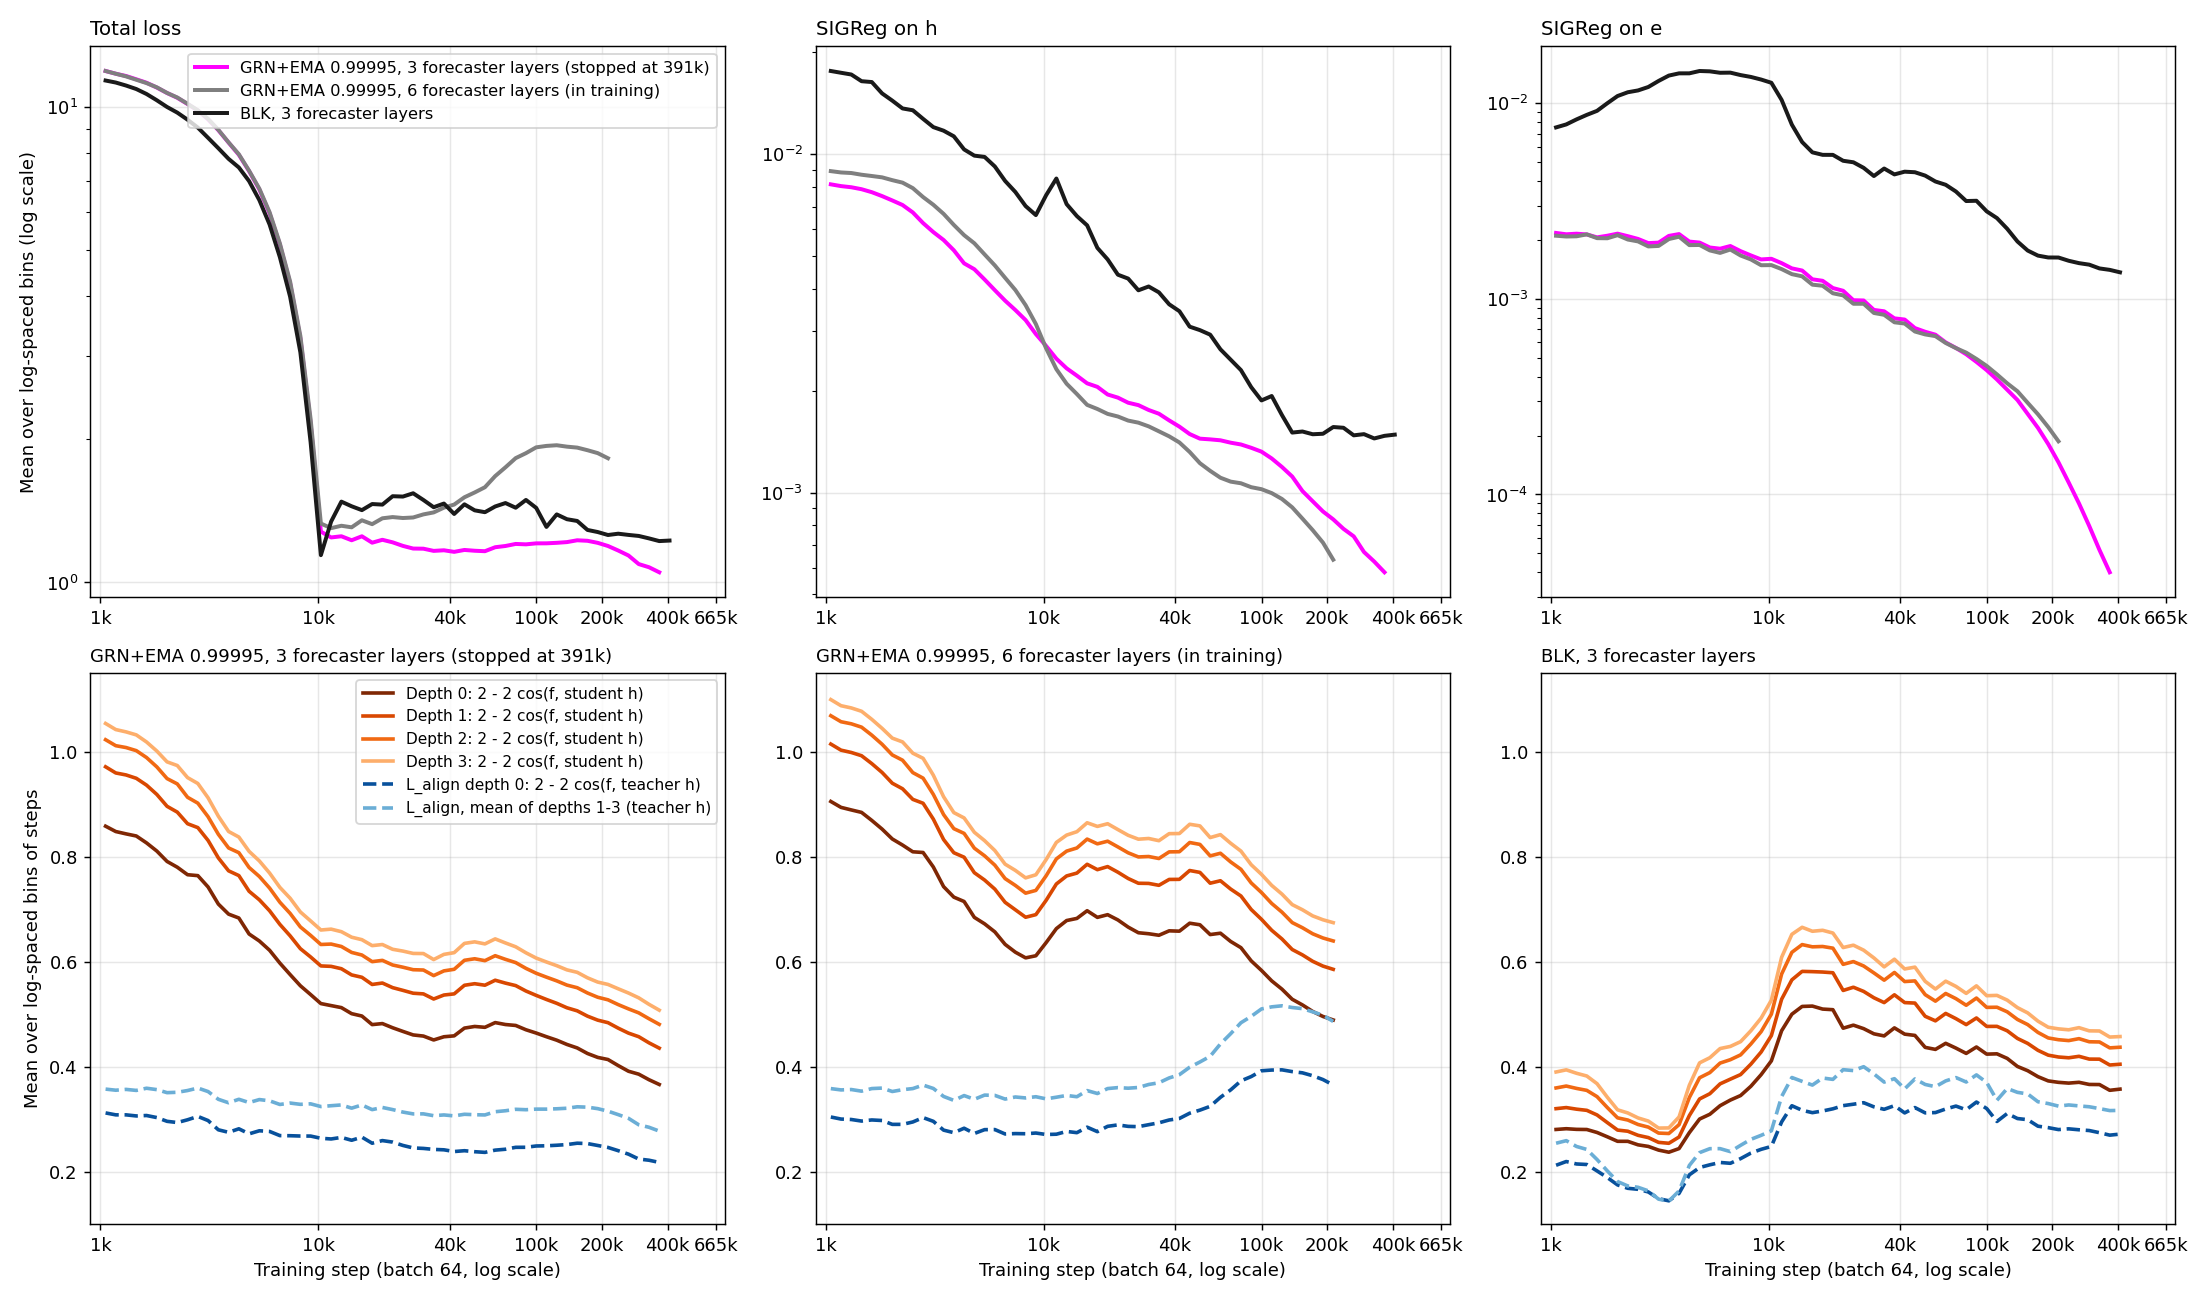
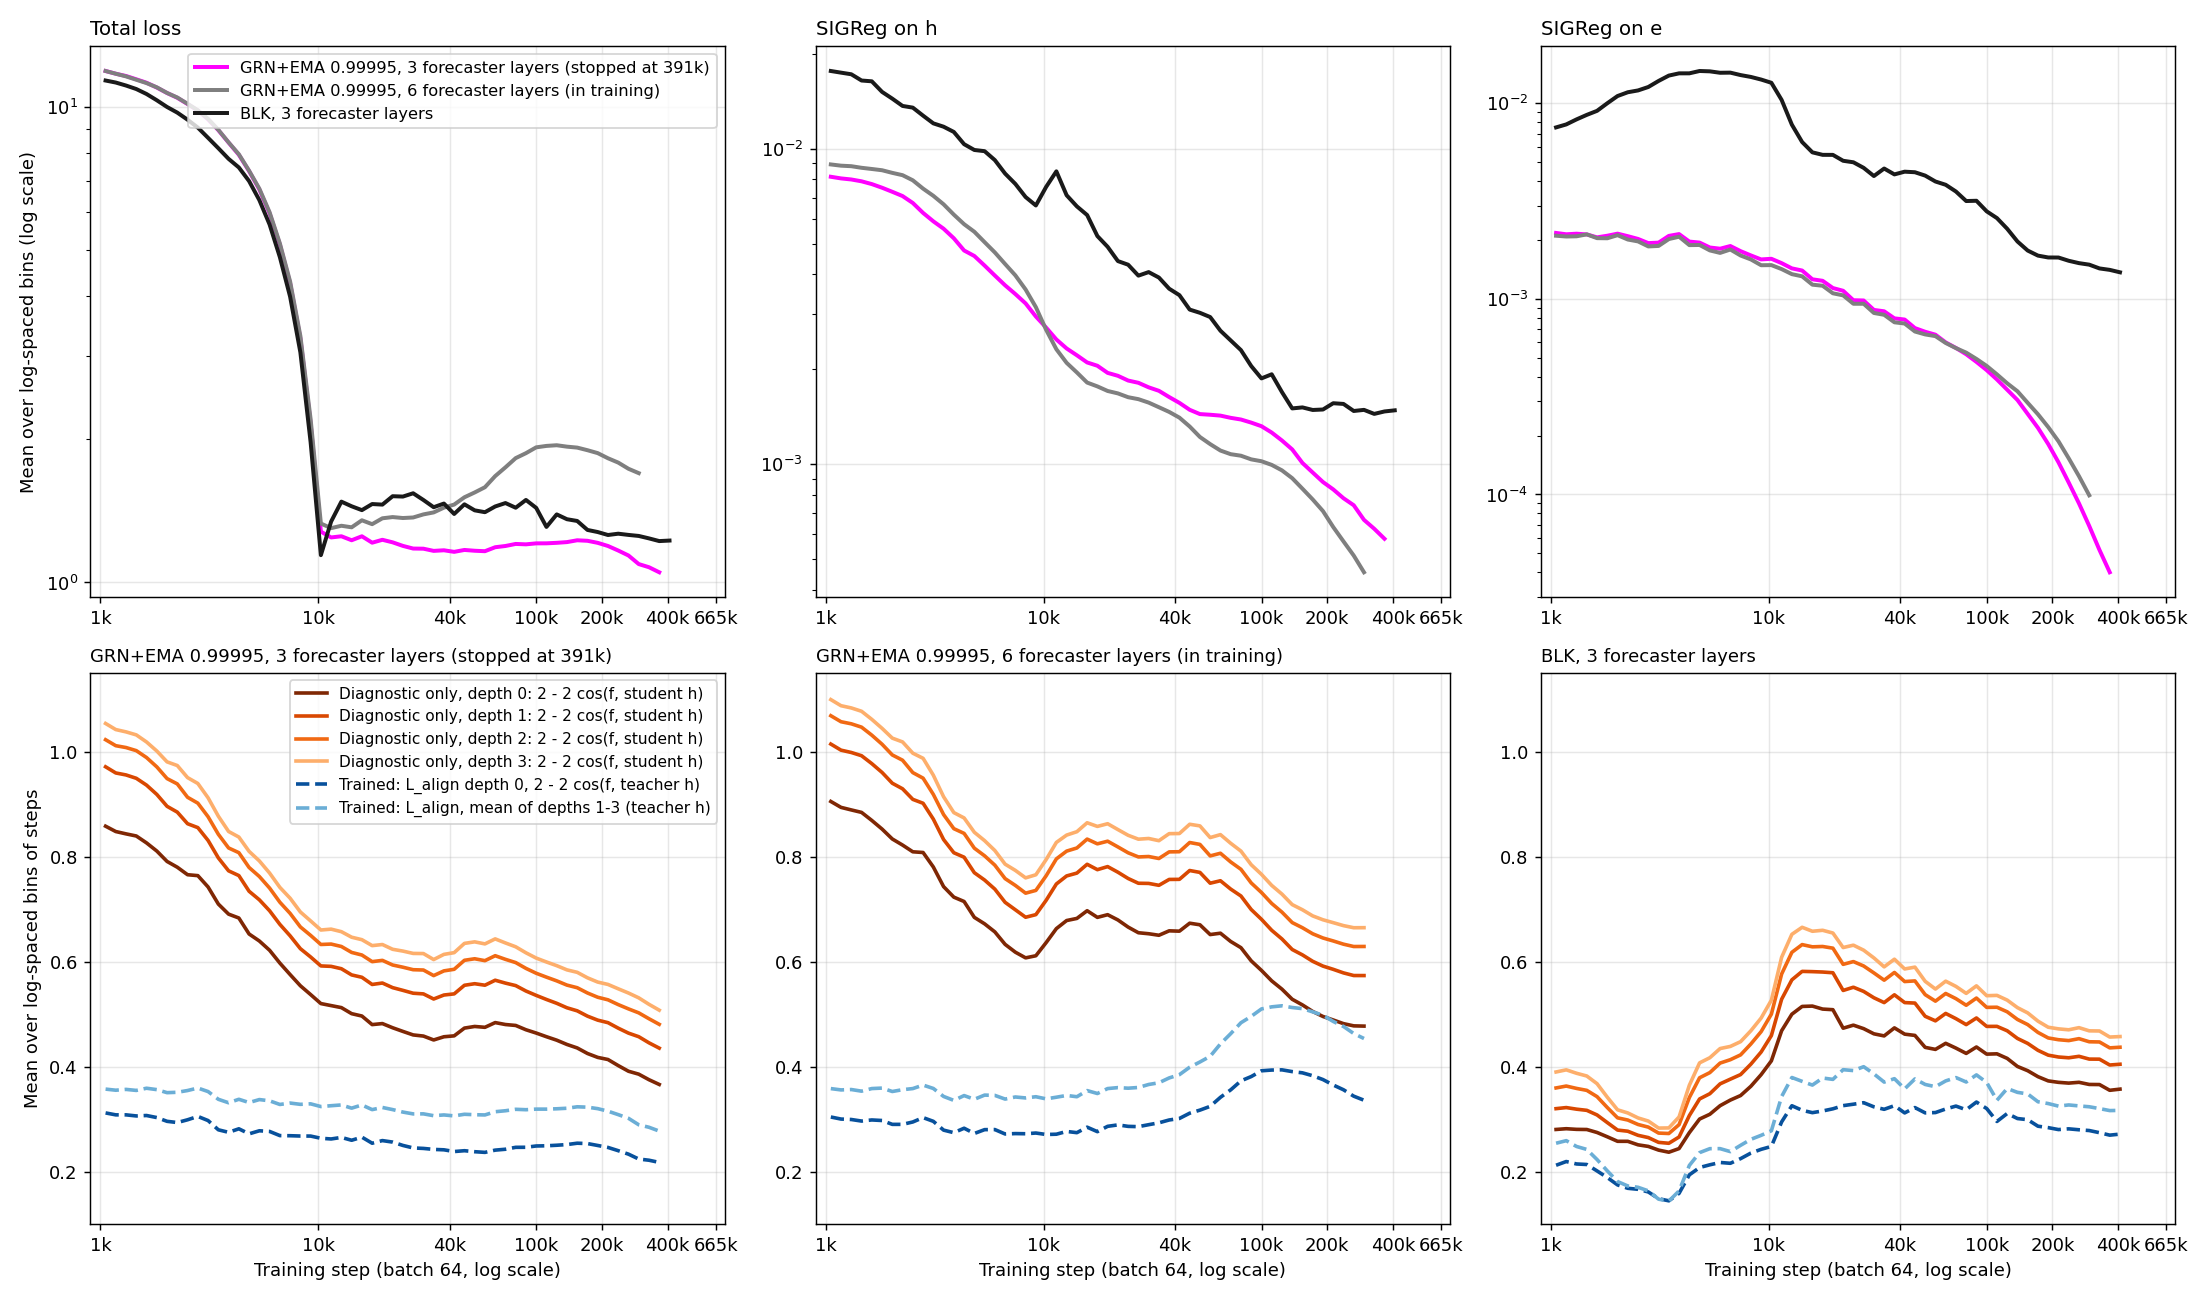
Loss terms figure: the solid lines are a diagnostic against the student latent, the dashed lines are the trained L_align
Grey losses to 314k.

diff --git a/reports/2026-10-10_frequency_family_head/scripts/plot_loss_composition_099995.py b/reports/2026-10-10_frequency_family_head/scripts/plot_loss_composition_099995.py
@@ -19,7 +19,8 @@ stacked parts of each run) and plots/loss_terms_099995.png. The top row of
 loss_terms has the total and SIGReg of the three runs on a log scale. Its
 bottom row has, for each run, the forecast error of each rollout depth
 j = 0..3 against the student latent, 2 x cos_err_dj = 2 - 2 cos(f^(j)_t,
-h_{t+1+j}) (columns cos_err_dj, `rollout_cos_error` in src/metrics.py), and
+h_{t+1+j}) (columns cos_err_dj, `rollout_cos_error` in src/metrics.py; a
+logged diagnostic that has no part in the loss), and
 L_align against the teacher latent: depth 0 (column l_align) and the mean of
 depths 1-3 (the rest / 3). The log has no column for L_align at each of the
 depths 1-3.
@@ -177,15 +178,16 @@ def draw_run_terms(axes, table):
 
 def draw_depths(ax, run, cols):
     """Bottom row: the error of each rollout depth against the student latent
-    (solid), and L_align against the teacher latent (dashed)."""
+    (solid, a logged diagnostic outside the loss), and L_align against the
+    teacher latent (dashed, the trained term)."""
     steps = cols["bin_centre_step"]
     for j in DEPTHS:
         ax.plot(steps, cols[f"err_d{j}"], color=DEPTH_COLOURS[j], lw=2.0,
-                label=f"Depth {j}: 2 - 2 cos(f, student h)")
+                label=f"Diagnostic only, depth {j}: 2 - 2 cos(f, student h)")
     ax.plot(steps, cols["align_d0"], color="#08519c", lw=2.0, ls="--",
-            label="L_align depth 0: 2 - 2 cos(f, teacher h)")
+            label="Trained: L_align depth 0, 2 - 2 cos(f, teacher h)")
     ax.plot(steps, cols["align_rest"] / 3, color="#6baed6", lw=2.0, ls="--",
-            label="L_align, mean of depths 1-3 (teacher h)")
+            label="Trained: L_align, mean of depths 1-3 (teacher h)")
     ax.set_title(RUNS[run][2], fontsize=10, loc="left")
     log_steps(ax)
 
